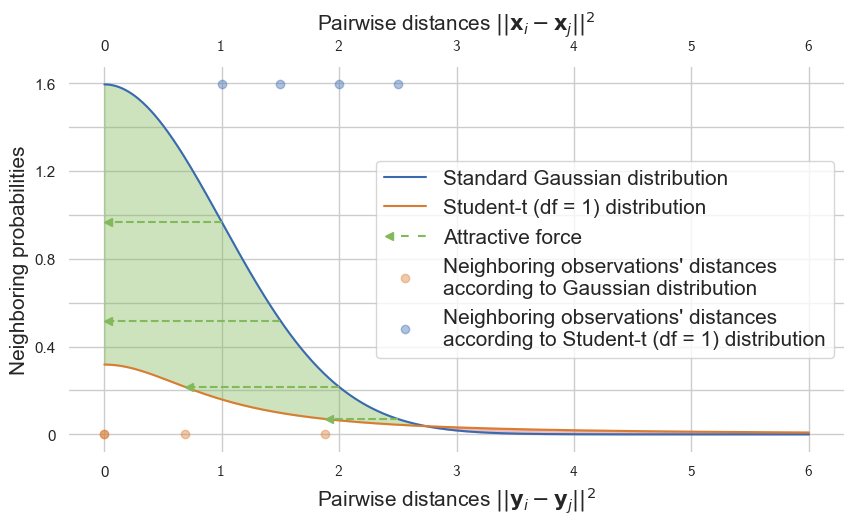
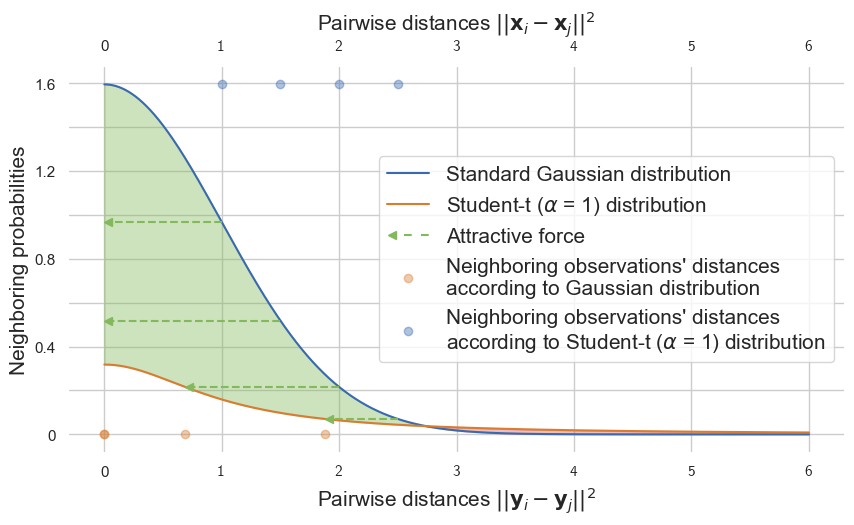
Freeze utility first step
and fixed student gaussian distance shift legend

diff --git a/thesis_plot.py b/thesis_plot.py
@@ -236,7 +236,7 @@ def plot_gaussian_student_distance_shift(x_lim_low, x_lim_high, *x_values, alpha
 
     plt.figure(figsize=(10, 5))
     plt.plot(x, alpha * stats.norm.pdf(x, mu, sigma), linestyle="-", color=blue, linewidth=1.5, label="Standard Gaussian distribution")
-    plt.plot(x, stats.t.pdf(x, 1), linestyle="-", color=orange, linewidth=1.5, label="Student-t (df = 1) distribution")
+    plt.plot(x, stats.t.pdf(x, 1), linestyle="-", color=orange, linewidth=1.5, label=r"Student-t ($\alpha$ = 1) distribution")
     plt.fill_between(x_1, alpha * stats.norm.pdf(x_1, mu, sigma), stats.t.pdf(x_1, 1), alpha=0.4, color=green)
     plt.fill_between(x_2, alpha * stats.norm.pdf(x_2, mu, sigma), stats.t.pdf(x_2, 1), alpha=0.4, color=red)
     for x_val in x_values:
@@ -247,9 +247,9 @@ def plot_gaussian_student_distance_shift(x_lim_low, x_lim_high, *x_values, alpha
             b, =plt.plot(find_x_given_y(x_lim_low, x_lim_high, alpha * stats.norm.pdf(x_val, mu, sigma), stats.t.pdf, 1) + marker_adjustment,
                         alpha * stats.norm.pdf(x_val, mu, sigma), linestyle='',
                         marker='<', color=green, markersize=6, zorder=100)
-            highdim, = plt.plot(find_x_given_y(x_lim_low, x_lim_high, alpha * stats.norm.pdf(x_val, mu, sigma), stats.t.pdf, 1), 0, linestyle='', markeredgewidth=1,
+            lowdim, = plt.plot(find_x_given_y(x_lim_low, x_lim_high, alpha * stats.norm.pdf(x_val, mu, sigma), stats.t.pdf, 1), 0, linestyle='', markeredgewidth=1,
                          marker="o", markerfacecolor=orange, markeredgecolor=orange, markersize=6, zorder=100, alpha=0.4)
-            lowdim, = plt.plot(x_val, alpha * stats.norm.pdf(0, mu, sigma), linestyle='', markeredgewidth=1,
+            highdim, = plt.plot(x_val, alpha * stats.norm.pdf(0, mu, sigma), linestyle='', markeredgewidth=1,
                          marker="o", markerfacecolor=blue, markeredgecolor=blue, markersize=6, zorder=100, alpha=0.4)
 
         else:
@@ -258,11 +258,11 @@ def plot_gaussian_student_distance_shift(x_lim_low, x_lim_high, *x_values, alpha
             e, =plt.plot(find_x_given_y(x_lim_low, x_lim_high, alpha * stats.norm.pdf(x_val, mu, sigma), stats.t.pdf, 1) - marker_adjustment,
                         alpha * stats.norm.pdf(x_val, mu, sigma), linestyle='',
                         marker='>', color=red, markersize=6, zorder=100)
-            highdim, = plt.plot(
+            lowdim, = plt.plot(
                 find_x_given_y(x_lim_low, x_lim_high, alpha * stats.norm.pdf(x_val, mu, sigma), stats.t.pdf, 1), 0,
                 linestyle='', markeredgewidth=1,
                 marker="o", markerfacecolor=orange, markeredgecolor=orange, markersize=6, zorder=100, alpha=0.4)
-            lowdim, = plt.plot(x_val, alpha * stats.norm.pdf(0, mu, sigma), linestyle='', markeredgewidth=1,
+            highdim, = plt.plot(x_val, alpha * stats.norm.pdf(0, mu, sigma), linestyle='', markeredgewidth=1,
                                marker="o", markerfacecolor=blue, markeredgecolor=blue, markersize=6, zorder=100,
                                alpha=0.4)
 
@@ -290,7 +290,7 @@ def plot_gaussian_student_distance_shift(x_lim_low, x_lim_high, *x_values, alpha
 
     handles.extend([highdim, lowdim])
     labels.extend(["Neighboring observations' distances\naccording to Gaussian distribution",
-                   "Neighboring observations' distances\naccording to Student-t (df = 1) distribution"])
+                   "Neighboring observations' distances\naccording to Student-t ($\\alpha$ = 1) distribution"])
 
     handles_.extend(handles)
     labels_.extend(labels)
@@ -540,7 +540,7 @@ def plot_theta_1nn_tradeoff():
 
     y_acc = np.array([0.7802,0.7797,0.7791,0.7781,0.7743,0.7731,0.7606,0.7573,0.7447,0.7294])
 
-    y_nn = 1-y_acc
+    y_nn = np.round(1-y_acc,4)
     sns.set_style("whitegrid")
     fig, ax = plt.subplots(figsize=(16, 4))
 
@@ -549,7 +549,7 @@ def plot_theta_1nn_tradeoff():
 
     plt.plot(x, y_nn, linestyle="--", marker='o', color='black', linewidth=1.5)
 
-    for i, txt in enumerate(y_acc):
+    for i, txt in enumerate(y_nn):
         ax.annotate(txt, xy=(x[i], y_nn[i]), xytext=(x[i]-0.05, y_nn[i]+0.001), fontsize=12)
 
     plt.ylabel("1-NN error", fontsize=15)
@@ -566,40 +566,64 @@ def plot_theta_1nn_tradeoff():
     plt.show()
 
 
-def plot_initialization_comparison():
+def plot_initialization_comparison(t_sne=True):
 
     x = np.round(np.linspace(0, 1000, 21), 0)
-    with open(
-            'C:\\Users\\Tobi\\git\\bhtsne\\results\\tSNE\\buildingblocks\\initial_embeddings\\pca\\exaggeration\\1\\fashion_mnist7000\\1\\bh_tsne_result-18-08-2019_06-25-33-metrics.json','r') as f:
-        metric_json = json.load(f)
+    if t_sne:
+        with open(
+                'C:\\Users\\Tobi\\git\\bhtsne\\results\\tSNE\\buildingblocks\\initial_embeddings\\pca\\exaggeration\\1\\fashion_mnist7000\\1\\bh_tsne_result-18-08-2019_06-25-33-metrics.json','r') as f:
+            metric_json = json.load(f)
 
-    y_pca = np.delete(np.array(list(metric_json['cost_function_value'].values())), 1)
+        y_pca = np.delete(np.array(list(metric_json['cost_function_value'].values())), 1)
 
-    with open(
-            'C:\\Users\\Tobi\\git\\bhtsne\\results\\tSNE\\buildingblocks\\initial_embeddings\\mds\\exaggeration\\1\\fashion_mnist7000\\1\\bh_tsne_result-18-08-2019_10-35-52-metrics.json','r') as f:
-        metric_json = json.load(f)
+        with open(
+                'C:\\Users\\Tobi\\git\\bhtsne\\results\\tSNE\\buildingblocks\\initial_embeddings\\mds\\exaggeration\\1\\fashion_mnist7000\\1\\bh_tsne_result-18-08-2019_10-35-52-metrics.json','r') as f:
+            metric_json = json.load(f)
 
-    y_mds = np.delete(np.array(list(metric_json['cost_function_value'].values())), 1)
+        y_mds = np.delete(np.array(list(metric_json['cost_function_value'].values())), 1)
 
-    with open(
-            'C:\\Users\\Tobi\\git\\bhtsne\\results\\tSNE\\buildingblocks\\initial_embeddings\\lle\\exaggeration\\1\\fashion_mnist7000\\1\\bh_tsne_result-18-08-2019_07-48-11-metrics.json','r') as f:
-        metric_json = json.load(f)
+        with open(
+                'C:\\Users\\Tobi\\git\\bhtsne\\results\\tSNE\\buildingblocks\\initial_embeddings\\lle\\exaggeration\\1\\fashion_mnist7000\\1\\bh_tsne_result-18-08-2019_07-48-11-metrics.json','r') as f:
+            metric_json = json.load(f)
 
-    y_lle = np.delete(np.array(list(metric_json['cost_function_value'].values())), 1)
+        y_lle = np.delete(np.array(list(metric_json['cost_function_value'].values())), 1)
 
-    with open(
-            'C:\\Users\\Tobi\\git\\bhtsne\\results\\tSNE\\buildingblocks\\initial_embeddings\\autoencoder\\exaggeration\\1\\fashion_mnist7000\\1\\bh_tsne_result-18-08-2019_09-10-53-metrics.json','r') as f:
-        metric_json = json.load(f)
+        with open(
+                'C:\\Users\\Tobi\\git\\bhtsne\\results\\tSNE\\buildingblocks\\initial_embeddings\\autoencoder\\exaggeration\\1\\fashion_mnist7000\\1\\bh_tsne_result-18-08-2019_09-10-53-metrics.json','r') as f:
+            metric_json = json.load(f)
 
-    y_auto = np.delete(np.array(list(metric_json['cost_function_value'].values())),1 )
+        y_auto = np.delete(np.array(list(metric_json['cost_function_value'].values())),1 )
+    else:
+        with open(
+                'C:\\Users\\Tobi\\git\\bhtsne\\results\\BHtSNE\\buildingblocks\\initial_embeddings\\pca\\exaggeration\\1\\fashion_mnist\\1\\bh_tsne_result-22-07-2019_11-17-43-metrics.json',
+                'r') as f:
+            metric_json = json.load(f)
+
+        y_pca = np.delete(np.array(list(metric_json['cost_function_value'].values())), 1)
+
+        with open(
+                'C:\\Users\\Tobi\\git\\bhtsne\\results\\BHtSNE\\buildingblocks\\initial_embeddings\\lle\\exaggeration\\1\\fashion_mnist\\1\\bh_tsne_result-22-07-2019_12-26-44-metrics.json',
+                'r') as f:
+            metric_json = json.load(f)
+
+        y_lle = np.delete(np.array(list(metric_json['cost_function_value'].values())), 1)
+
+        with open(
+                'C:\\Users\\Tobi\\git\\bhtsne\\results\\BHtSNE\\buildingblocks\\initial_embeddings\\autoencoder\\exaggeration\\1\\fashion_mnist\\1\\bh_tsne_result-23-07-2019_13-32-56-metrics.json',
+                'r') as f:
+            metric_json = json.load(f)
+
+        y_auto = np.delete(np.array(list(metric_json['cost_function_value'].values())), 1)
 
     sns.set_style("whitegrid")
     fig, ax = plt.subplots(figsize=(16, 4))
+    palette = sns.color_palette()
 
-    plt.plot(x, y_pca, linestyle="-", linewidth=1.5, label="PCA")
-    plt.plot(x, y_mds, linestyle="-", linewidth=1.5, label="MDS")
-    plt.plot(x, y_lle, linestyle="-", linewidth=1.5, label="LLE")
-    plt.plot(x, y_auto, linestyle="-", linewidth=1.5, label="Autoencoder")
+    plt.plot(x, y_pca, linestyle="-", linewidth=1.5, label="PCA", color=palette[0])
+    if t_sne:
+        plt.plot(x, y_mds, linestyle="-", linewidth=1.5, label="MDS", color=palette[1])
+    plt.plot(x, y_lle, linestyle="-", linewidth=1.5, label="LLE", color=palette[2])
+    plt.plot(x, y_auto, linestyle="-", linewidth=1.5, label="Autoencoder", color=palette[3])
 
     ax.tick_params(
         axis='both',  # changes apply to the x-axis
@@ -608,17 +632,24 @@ def plot_initialization_comparison():
     plt.ylabel("KL-cost", fontsize=15)
     plt.xlabel("Iteration", fontsize=15)
 
-    axins = inset_axes(ax, width="30%", height="30%", loc=10)
-    axins.plot(x, y_pca, linestyle="-", linewidth=1.5, label="PCA")
-    axins.plot(x, y_mds, linestyle="-", linewidth=1.5, label="MDS")
-    axins.plot(x, y_lle, linestyle="-", linewidth=1.5, label="LLE")
-    axins.plot(x, y_auto, linestyle="-", linewidth=1.5, label="Autoencoder")
+
+
+    axins = inset_axes(ax, width="30%", height="30%", loc=10 if t_sne else 7)
+    axins.plot(x, y_pca, linestyle="-", linewidth=1.5, label="PCA", color=palette[0])
+    if t_sne:
+        axins.plot(x, y_mds, linestyle="-", linewidth=1.5, label="MDS", color=palette[1])
+    axins.plot(x, y_lle, linestyle="-", linewidth=1.5, label="LLE", color=palette[2])
+    axins.plot(x, y_auto, linestyle="-", linewidth=1.5, label="Autoencoder", color=palette[3])
     axins.set_xlim([890, 1000.5])
-    axins.set_ylim([1.1801, 1.2099])
+    if t_sne:
+        axins.set_ylim([1.1801, 1.2099])
+    else:
+        axins.set_ylim([2.9064, 3.135])
+
     axins.xaxis.tick_top()
     axins.tick_params(axis='x', which='both', length=0)
     axins.xaxis.set_major_locator(ticker.MultipleLocator(50))
-    mark_inset(ax, axins, loc1=1, loc2=3, fc="2", ec="0.5")
+    mark_inset(ax, axins, loc1=1 if t_sne else 3, loc2=3 if t_sne else 4, fc="2", ec="0.5")
 
     # ax2 = plt.axes([0.4, 0.4, .35, .2], facecolor=None)
     # ax2.plot(x, y_pca, linestyle="-", linewidth=1.5, label="PCA")
@@ -638,21 +669,23 @@ def plot_initialization_comparison():
     # ax3.set_ylim([1.8295, 2.5649])
     # ax3.xaxis.set_major_locator(ticker.MultipleLocator(50))
 
-
+    ax.tick_params(
+        axis='both',  # changes apply to the x-axis
+        labelsize=12)
     ax.legend(fontsize=15, ncol=4, handletextpad=0.4, columnspacing=0.4, loc="upper center")
     sns.despine(left=True, right=True, bottom=True, top=True)
 
-    plt.savefig("initial_embeddings_cost", bbox_inches="tight")
+    plt.savefig("initial_embeddings_cost_{}".format("tSNE" if t_sne else "BHtSNE"), bbox_inches="tight")
 
     plt.show()
 
 
 if __name__ == '__main__':
 
-    plot_initialization_comparison()
+    #plot_initialization_comparison(t_sne=False)
     #plot_theta_1nn_tradeoff()
     #plot_theta_run_time()
-    #plot_gaussian_student_distance_shift(0, 6, 1, 1.5, 2, 2.5, alpha=4)
+    plot_gaussian_student_distance_shift(0, 6, 1, 1.5, 2, 2.5, alpha=4)
 
     #plot_perplexity_trustworthiness()
     #plot_perplexity_time()

diff --git a/tsne_main.py b/tsne_main.py
@@ -65,6 +65,10 @@ BUILDINGBLOCK_DIR = "buildingblocks"
 
 INITIAL_EMBEDDING_DIR = os.path.join(BUILDINGBLOCK_DIR, "initial_embeddings")
 
+# Freeze index dir
+FREEZE_DIR = "freeze_index"
+FREEZE_INITIAL_DIR = os.path.join(FREEZE_DIR, "trained_embeddings")
+
 LOGGING_DIR = os.path.join(CWD, "logging")
 DAY = datetime.now().strftime("%d-%m-%Y")
 LOGGING_FILE_NAME = "bhtsne-" + DAY + ".log"
@@ -129,6 +133,18 @@ def init_directories():
 
     try:
         os.makedirs(os.path.join(RESULT_DIR, "BHtSNE", BUILDINGBLOCK_DIR))
+    except FileExistsError:
+        # directory already exists
+        pass
+
+    try:
+        os.makedirs(os.path.join(RESULT_DIR, "tSNE", FREEZE_INITIAL_DIR))
+    except FileExistsError:
+        # directory already exists
+        pass
+
+    try:
+        os.makedirs(os.path.join(RESULT_DIR, "BHtSNE", FREEZE_INITIAL_DIR))
     except FileExistsError:
         # directory already exists
         pass
@@ -211,6 +227,7 @@ def _argparse():
     argparse.add_argument('-i', '--initial_embedding', choices=["gaussian", "pca", "lle"], default="gaussian")
     argparse.add_argument('-pt', '--parametertuning', action='store_true', default=False)
     argparse.add_argument('-y', '--y_init', action='store_true', default=False)
+    argparse.add_argument('-f', '--freeze_index', type=int, default=0)
     argparse.add_argument('-r', '--run_time', action='store_true', default=False)
     argparse.add_argument('-insim', '--input_similarities', default="gaussian",
                           choices=bhtsne.BUILDING_BLOCK_DICT["input_similarities"].keys())
@@ -429,6 +446,21 @@ if __name__ == "__main__":
                                                                    method, PARAM_DICT[param][1]),
                                       initial_embedding_method=method,)
 
+        elif argp.freeze_index != 0:
+            for param in param_list:
+                if exact:
+                    """
+                    pass an additional theta=0.0 if running exact tSNE
+                    """
+                    tsne_workflow(parameter_name=param, value_list=PARAM_DICT[param][0], data=data,
+                                  data_result_subdirectory=data_name,
+                                  result_base_dir=os.path.join(operation_dir, PARAM_DICT[param][1]),
+                                  initial_embedding_method=initial_embedding, theta=0.0)
+                else:
+                    tsne_workflow(parameter_name=param, value_list=PARAM_DICT[param][0], data=data,
+                                  data_result_subdirectory=data_name,
+                                  result_base_dir=os.path.join(operation_dir, PARAM_DICT[param][1]),
+                                  initial_embedding_method=initial_embedding)
         ###########################################################
         #                RUN BUILDINGBLOCK ANALYSIS               #
         ###########################################################

diff --git a/tsne_plot.py b/tsne_plot.py
@@ -309,23 +309,23 @@ def load_result_and_plot_single(_input_data, _labels, path_to_bh_tsne_result, da
 if __name__ == "__main__":
 
     #data, labels = mnist.load_fashion_mnist_data(False, len_sample=7000)
-    #data, labels = mnist.load_fashion_mnist_data(True)
+    data, labels = mnist.load_fashion_mnist_data(True)
 
     #load_result_and_plot_comparison(_labels=labels, root_dir=os.path.join(RESULT_DIR, "tSNE", "parametertuning",
     #                                                                      "output_similarities", "studentalpha"),
     #                                plot_title_from_filepath_index=-6, data_identifier="fashion_mnist")
 
-    #load_result_and_plot_single(data, labels,
-    #                            "C:\\Users\\Tobi\\git\\bhtsne\\results\\BHtSNE\\buildingblocks\\initial_embeddings",
-    #                            data_filter="fashion_mnist",
-    #                            mode=1, legend=None, rearrange_legend=True, max_iter_only=True)
+    # load_result_and_plot_single(data, labels,
+    #                             "C:\\Users\\Tobi\\git\\bhtsne\\results\\BHtSNE\\buildingblocks\\initial_embeddings",
+    #                             data_filter="fashion_mnist",
+    #                             mode=1, legend=None, rearrange_legend=True, max_iter_only=True)
 
-    data, labels = mnist.load_fashion_mnist_data(False, len_sample=500)
+    #data, labels = mnist.load_fashion_mnist_data(False, len_sample=7000)
 
     load_result_and_plot_single(data, labels,
-                                "C:\\Users\\Tobi\\git\\bhtsne\\results\\tSNE\\buildingblocks\\optimization",
-                                data_filter="fashion_mnist500",
-                                mode=1, legend=None, rearrange_legend=False, max_iter_only=False)
+                                "C:\\Users\\Tobi\\git\\bhtsne\\results\\BHtSNE\\buildingblocks\\output_similarities\\",
+                                data_filter="fashion_mnist",
+                                mode=1, legend=None, rearrange_legend=True, max_iter_only=True)
 
     # basepath1 = "C:\\Users\\Tobi\\Documents\\SS_19\\Master Thesis\\04 - Experiment Results\\MNIST\\base\\unoptimized sptree\\1"
     # basepath2 = "C:\\Users\\Tobi\\Documents\\SS_19\\Master Thesis\\04 - Experiment Results\\MNIST\\base\\optimized sptree\\1"

diff --git a/mnist.py b/mnist.py
@@ -64,7 +64,7 @@ def load_mnist_data(all_data=True, dir_name=DEFAULT_DIR):
         return mnist, label
 
 
-def load_fashion_mnist_data(all_data=True, len_sample=2500, dir_name=DEFAULT_DIR):
+def load_fashion_mnist_data(all_data=True, train_test_split=False, len_sample=2500, dir_name=DEFAULT_DIR):
     # init empty numpy arrays
 
     fashion_mnist_images = np.empty((0, 784))
@@ -100,7 +100,11 @@ def load_fashion_mnist_data(all_data=True, len_sample=2500, dir_name=DEFAULT_DIR
         fashion_mnist_labels = np.hstack((fashion_mnist_labels, labels))
 
     if all_data:
-        return fashion_mnist_images, fashion_mnist_labels
+        if train_test_split:
+            return (fashion_mnist_images[:60000], fashion_mnist_images[60000:]),\
+                   (fashion_mnist_labels[:60000], fashion_mnist_labels[60000:])
+        else:
+            return fashion_mnist_images, fashion_mnist_labels
     else:
         return sample_data(fashion_mnist_images, fashion_mnist_labels, len_sample)
 
@@ -115,8 +119,7 @@ def mnist_2d_to_1d(data, num_observations=70000, img_rows=28, img_cols=28):
 
 if __name__ == '__main__':
     #x, label = load_mnist_data(True)
-    fashion_x, fashion_label = load_fashion_mnist_data(all_data=False)
-
+    fashion_x, fashion_label = load_fashion_mnist_data(all_data=True, train_test_split=True)
 
 
 

diff --git a/autoencoder.py b/autoencoder.py
@@ -78,7 +78,9 @@ def make_and_fit(data, train_test_split_threshold=60000):
     model.compile(optimizer=optimizers.Adam(1e-3), loss='binary_crossentropy', metrics=['accuracy', 'mse'])
 
     print(model.summary())
-
+    print(encoder.summary())
+    print(decoder.summary())
+    quit()
     clr = ReduceLROnPlateau(
         monitor='loss',
         factor=0.5,
@@ -141,7 +143,8 @@ if __name__ == '__main__':
             data[idx] = np.subtract(np.ones((28, 28)), data[idx])
 
     # #
-    # # #model, encoder, decoder = make_and_fit(data)
+    model, encoder, decoder = make_and_fit(data)
+    quit()
     # # #
     # # #model.save("autoencoder.h5")
     # # #encoder.save("encoder.h5")

diff --git a/bhtsne.py b/bhtsne.py
@@ -109,8 +109,7 @@ DEFAULT_FREEZE_INDEX = 0
 
 def _argparse():
     argparse = ArgumentParser('bh_tsne Python wrapper')
-    argparse.add_argument('-d', '--no_dims', type=int,
-                          default=DEFAULT_NO_DIMS)
+    argparse.add_argument('-d', '--no_dims', type=int, default=DEFAULT_NO_DIMS)
     argparse.add_argument('-p', '--perplexity', type=float, default=DEFAULT_PERPLEXITY)
     argparse.add_argument('-t', '--theta', type=float, default=DEFAULT_THETA)
     argparse.add_argument('-r', '--randseed', type=int, default=EMPTY_SEED)
